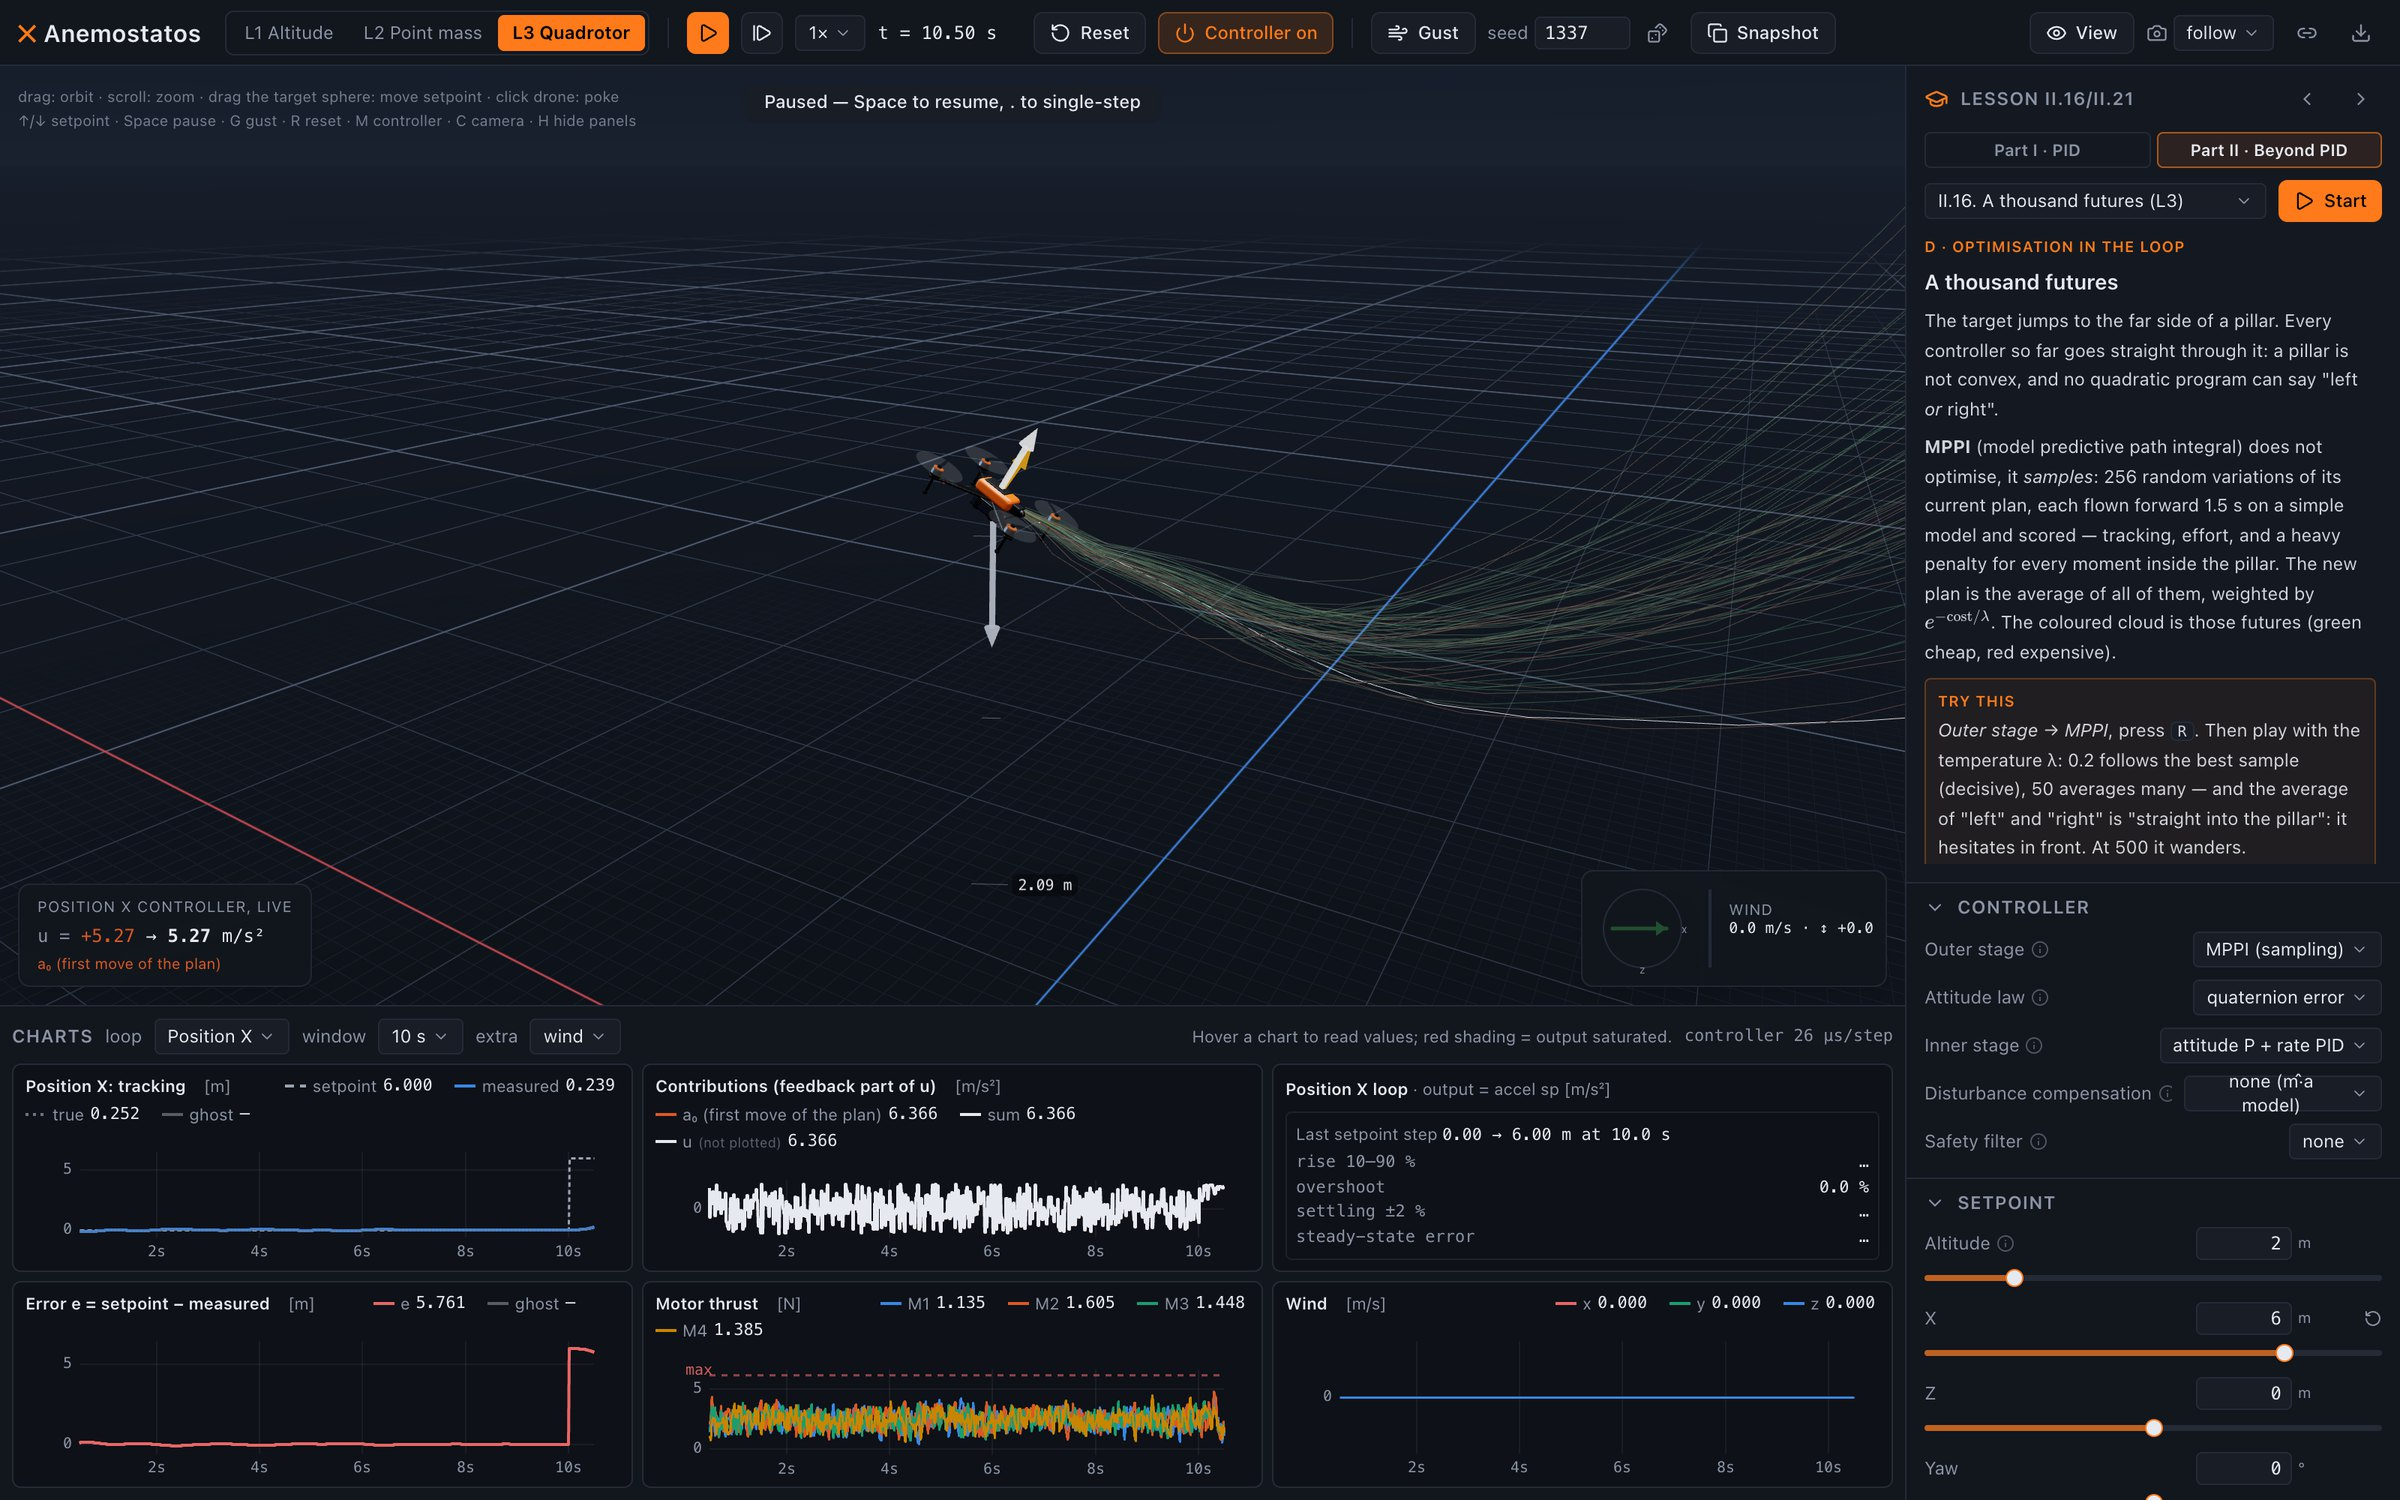
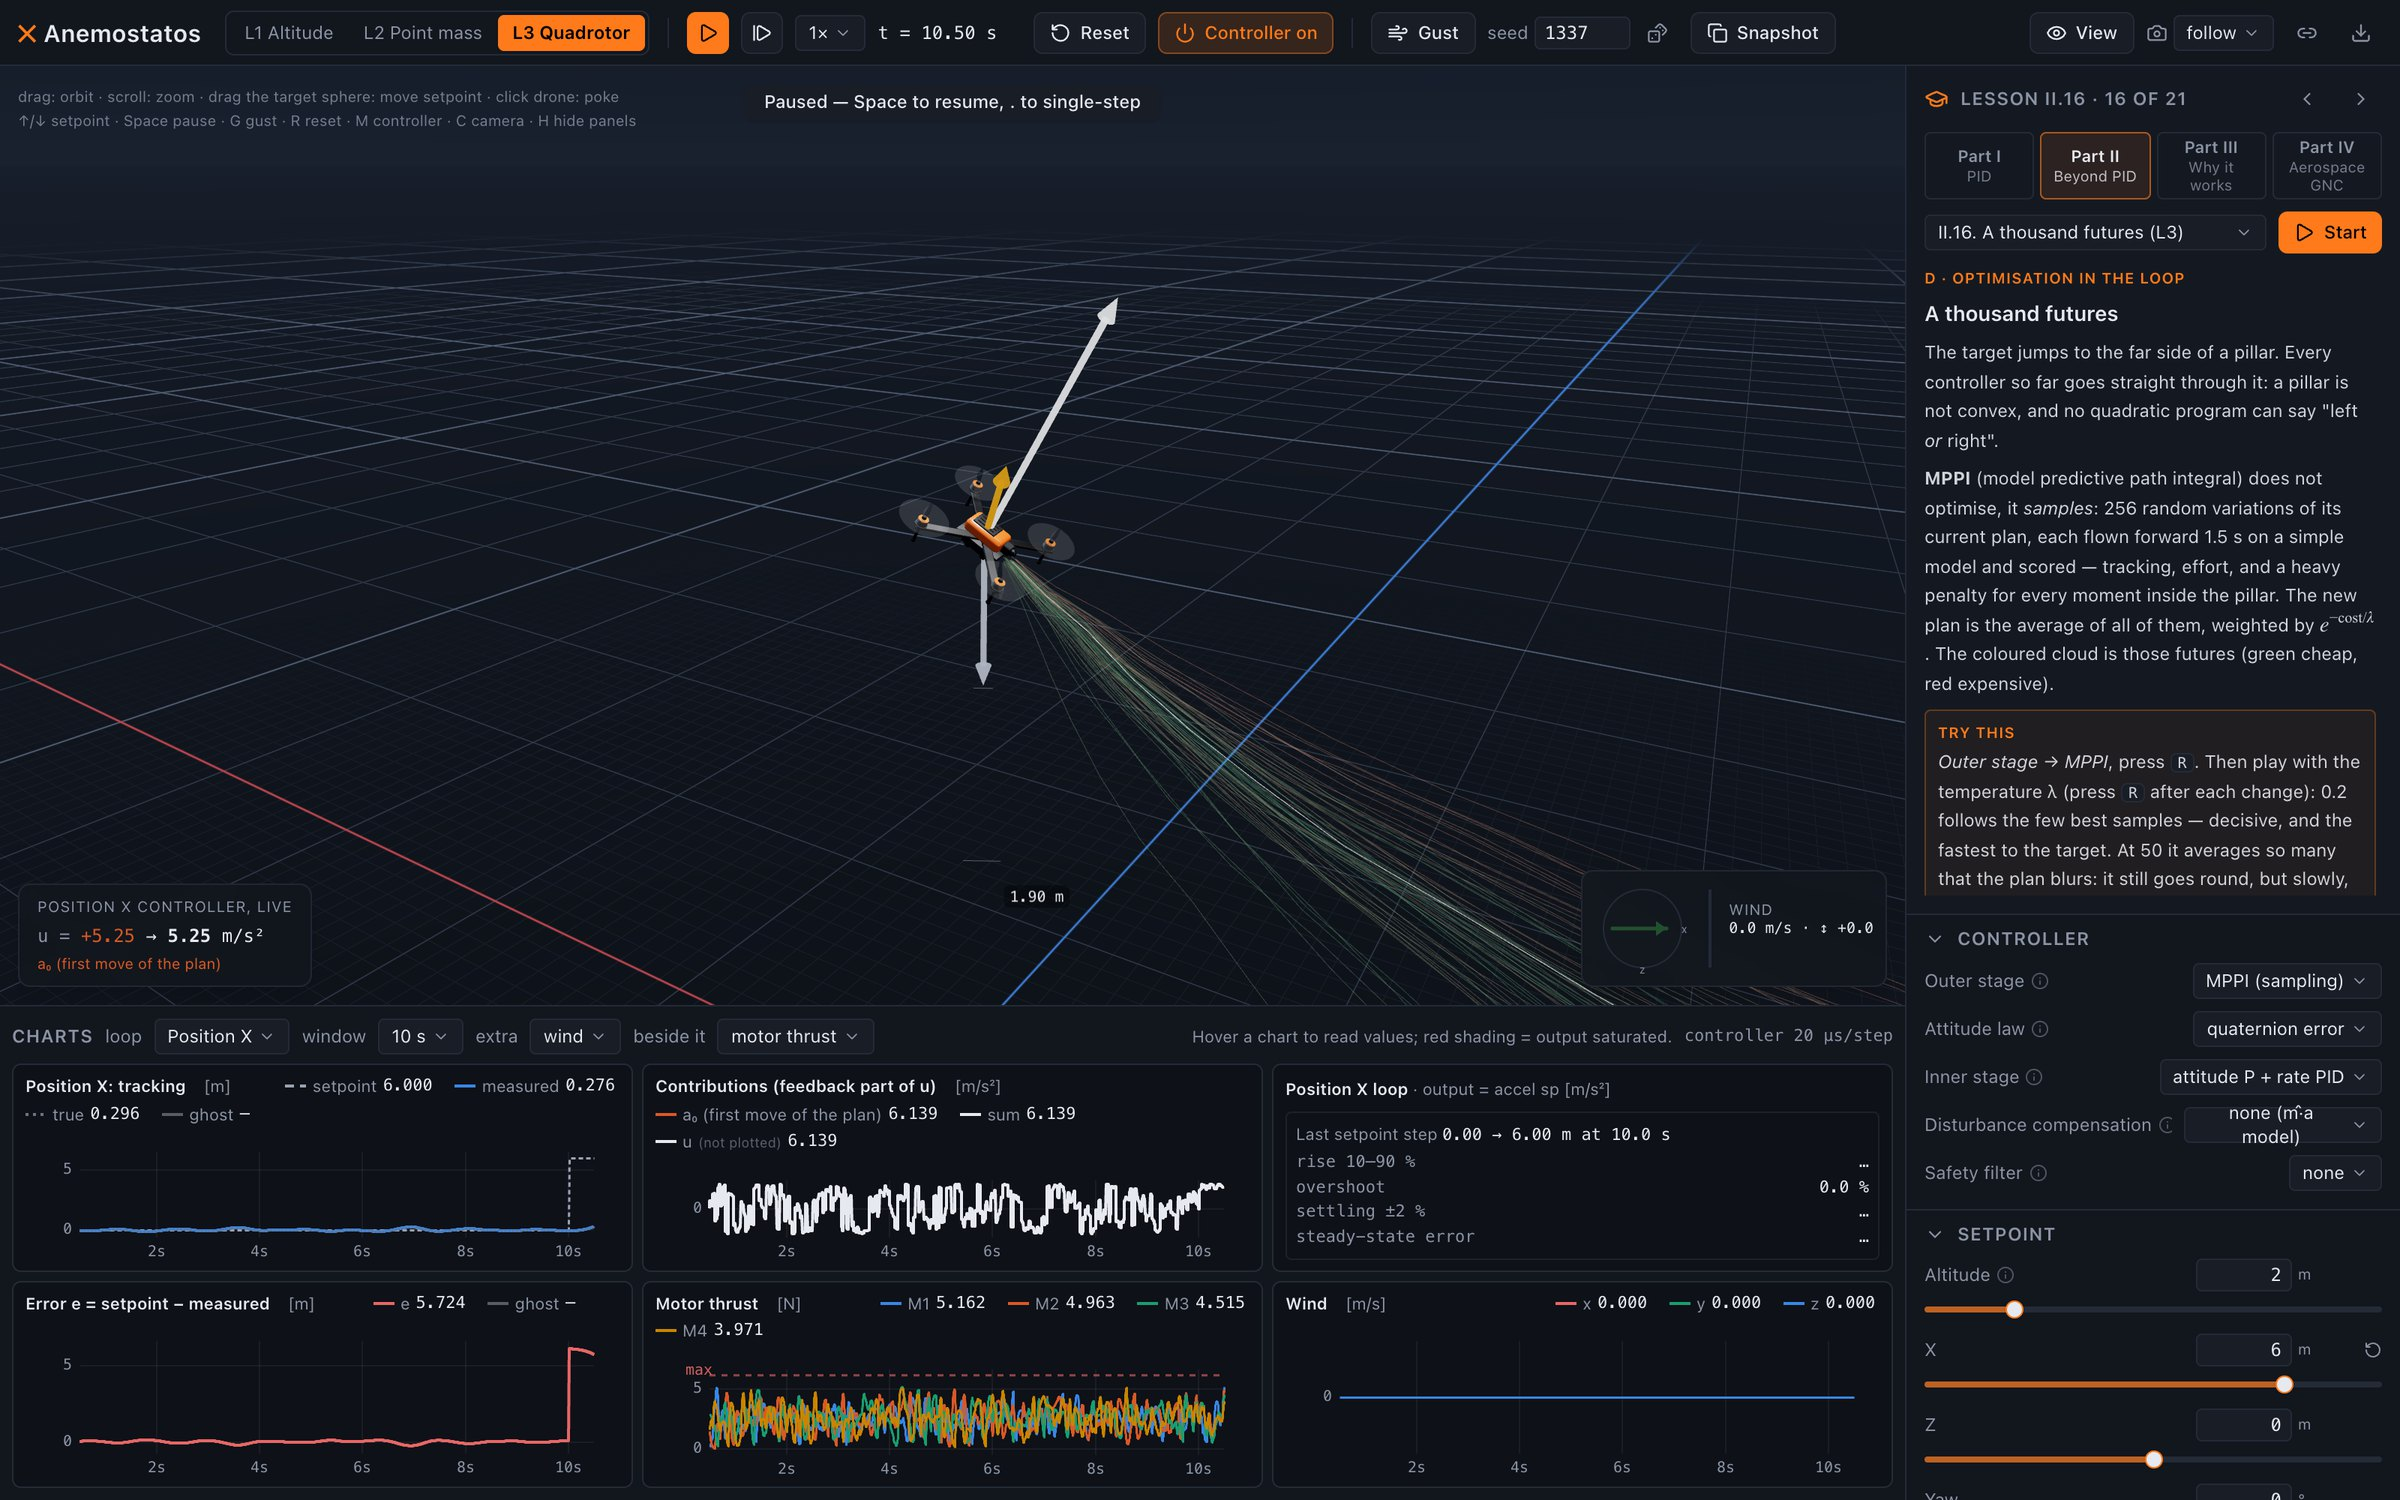
Book: retake the II.16 MPPI screenshot after the plan-timing fix; add the II.21 arena table screenshot

diff --git a/book/part2/21-arena.tex b/book/part2/21-arena.tex
@@ -88,6 +88,8 @@ Read the Noisy sensors column together with the motor jitter.
 
 The third price is computing time. \texttt{make bench} measures it as wall-clock time per \SI{1}{ms} physics step, simulation included, so the numbers depend on the machine and on what else it is doing. On the machine that built this book (2~October~2026), every formula controller — PID, geometric, INDI, L1, learned residual, the neural policy — cost between 9.7 and \SI{10.5}{\micro s} per step, MPC 31 to \SI{33}{\micro s} and MPPI \SI{86}{\micro s}; the run recorded in \texttt{docs/arena.md} (28~September) gave 2.8 to 3.6, about 24 and \SI{74}{\micro s}. The formula controllers are indistinguishable behind the cost of the physics; the optimisers are three and eight times more expensive, and on a flight computer, where there is no physics to simulate, the ratio is larger.\innumbers{MPPI rolls out 256 sampled input sequences of 30 steps every \SI{20}{ms}: about \num{380000} model steps per second.}
 
+\simfig{screens/arena}{Lesson II.21 in the app after \ui{Run the arena}, run in a browser: the results table of the lesson panel. The table is wider than the panel; it is shown here at its two scroll positions, left and right of the line. Orange marks the best value of each column. The cells agree with \cref{fig:arena-grid} except MPPI's row, whose flights depend on its sampled rollouts and come out a few millimetres different from the recorded flights behind the book's numbers. The \ui{\textmu s} column is the wall-clock time per physics step in that browser: it depends on the machine and on its load.}{fig:arena-screen}
+
 \section{What each family is best for}
 
 \begin{result}[Part II in one table]
